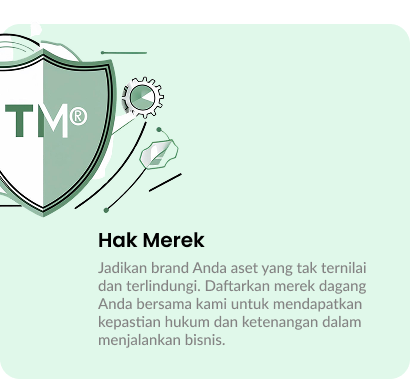
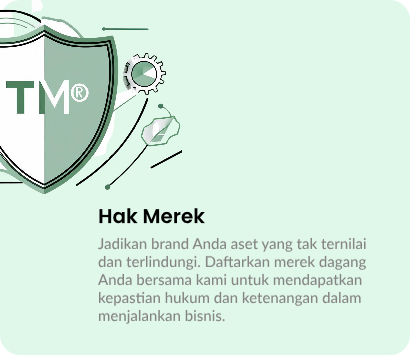
Build 13 - Image Fast Optimizer

Changed region(s): [[0.0, 0.0, 1.0, 0.5887], [0.2341, 0.5887, 0.9073, 0.9296]]

diff --git a/components/sections/ServiceSection.jsx b/components/sections/ServiceSection.jsx
@@ -4,12 +4,12 @@ export default function ServicesSection() {
   // Data layanan bisa diletakkan di sini atau diambil dari CMS
 
   const services = [
-    { title: "Aplikasi Mobile", description: "Tingkatkan loyalitas pelanggan...", image: "/services/AppMob.svg", alt: "Mockup aplikasi mobile" },
-    { title: "Hak Merk", description: "Tingkatkan loyalitas pelanggan...", image: "/services/HakMerk.svg", alt: "Mockup hak merk" },
-    { title: "Website", description: "Ubah pengunjung menjadi pelanggan...", image: "/services/Web.svg", alt: "Mockup website profesional" },
-    { title: "Dashboard", description: "Ambil keputusan bisnis lebih cerdas...", image: "/services/Dashboard.svg", alt: "Mockup dashboard analitik" },
-    { title: "Advertising Online", description: "Dapatkan pelanggan berkualitas secara instan...", image: "/services/Ads.svg", alt: "Iklan Google di halaman pencarian" },
-    { title: "Artikel SEO", description: "Dominasi peringkat Google dan bangun kepercayaan...", image: "/services/SEO.svg", alt: "Contoh hasil artikel SEO" },
+    { title: "Aplikasi Mobile", description: "Tingkatkan loyalitas pelanggan...", image: "/services/AppMob.png", alt: "Mockup aplikasi mobile" },
+    { title: "Hak Merk", description: "Tingkatkan loyalitas pelanggan...", image: "/services/HakMerk.png", alt: "Mockup hak merk" },
+    { title: "Website", description: "Ubah pengunjung menjadi pelanggan...", image: "/services/Web.png", alt: "Mockup website profesional" },
+    { title: "Dashboard", description: "Ambil keputusan bisnis lebih cerdas...", image: "/services/Dashboard.png", alt: "Mockup dashboard analitik" },
+    { title: "Advertising Online", description: "Dapatkan pelanggan berkualitas secara instan...", image: "/services/Ads.png", alt: "Iklan Google di halaman pencarian" },
+    { title: "Artikel SEO", description: "Dominasi peringkat Google dan bangun kepercayaan...", image: "/services/SEO.png", alt: "Contoh hasil artikel SEO" },
   ];
 
   return (

diff --git a/components/sections/CollaborationSection.jsx b/components/sections/CollaborationSection.jsx
@@ -20,7 +20,7 @@ export default function CollaborationSection() {
         <section id="kolaborasi" className="container grid grid-cols-1 lg:grid-cols-2 place-items-center gap-10 lg:gap-8 p-6 mx-auto">
             <div className="relative lg:w-full">
                 <Image
-                    src="/Collaborate.png"
+                    src="/Collaborate.jpg"
                     alt="Kolaborasi"
                     width={600}
                     height={600}
@@ -36,7 +36,7 @@ export default function CollaborationSection() {
                     Kami mengubah konsep menjadi solusi nyata melalui proses yang terencana dan eksekusi yang kreatif.
                 </p>
 
-                <ul className="space-y-4">
+                <ul className="space-y-4 pl-0 list-none w-full">
                     {points.map((point, index) => (
                         <li key={index} className="flex flex-col lg:flex-row items-start space-y-6 lg:space-x-6 bg-[#2ECC71]/15 p-6 rounded-lg shadow-md transition-transform hover:-translate-y-1">
                             <div className="h-10 w-20 bg-[#2ECC71] text-white flex items-center justify-center rounded-md">

diff --git a/components/sections/HeroSection.jsx b/components/sections/HeroSection.jsx
@@ -40,7 +40,7 @@ export default function HeroSection() {
           </div>
         </div>
         <div className="relative w-full h-fit rounded-xl overflow-hidden shadow-2xl">
-          <CustomVideoPlayer src="/video/hero_video.mp4" thumbnailSrc={'/hero/thumbnail2.png'} />
+          <CustomVideoPlayer src="/video/hero_video.mp4" thumbnailSrc={'/hero/thumbnail2.jpg'} />
         </div>
       </div>
     </section>

diff --git a/components/sections/ExperienceSection.jsx b/components/sections/ExperienceSection.jsx
@@ -39,7 +39,7 @@ export default function ExperienceSection() {
 
             <div className="relative">
                 <Image
-                    src="/experience.png"
+                    src="/experience.jpg"
                     alt="experiences"
                     width={600}
                     height={600}

diff --git a/tailwind.config.js b/tailwind.config.js
@@ -1,5 +1,6 @@
 /** @type {import('tailwindcss').Config} */
 module.exports = {
+  important: true, // Menjadikan semua kelas Tailwind sebagai !important
   // Array content tetap diperlukan untuk Next.js
   content: [
     "./app/**/*.{js,ts,jsx,tsx,mdx}",

diff --git a/app/globals.css b/app/globals.css
@@ -31,11 +31,13 @@ em {
 }
 
 ul {
-  @apply list-disc pl-10;
+  list-style: disc;
+  padding-left: 1.5rem;
 }
 
 ol {
-  @apply list-decimal pl-10;
+  list-style: decimal;
+  padding-left: 1.5rem;
 }
 
 /* Style untuk tombol aktif di editor Tiptap */
